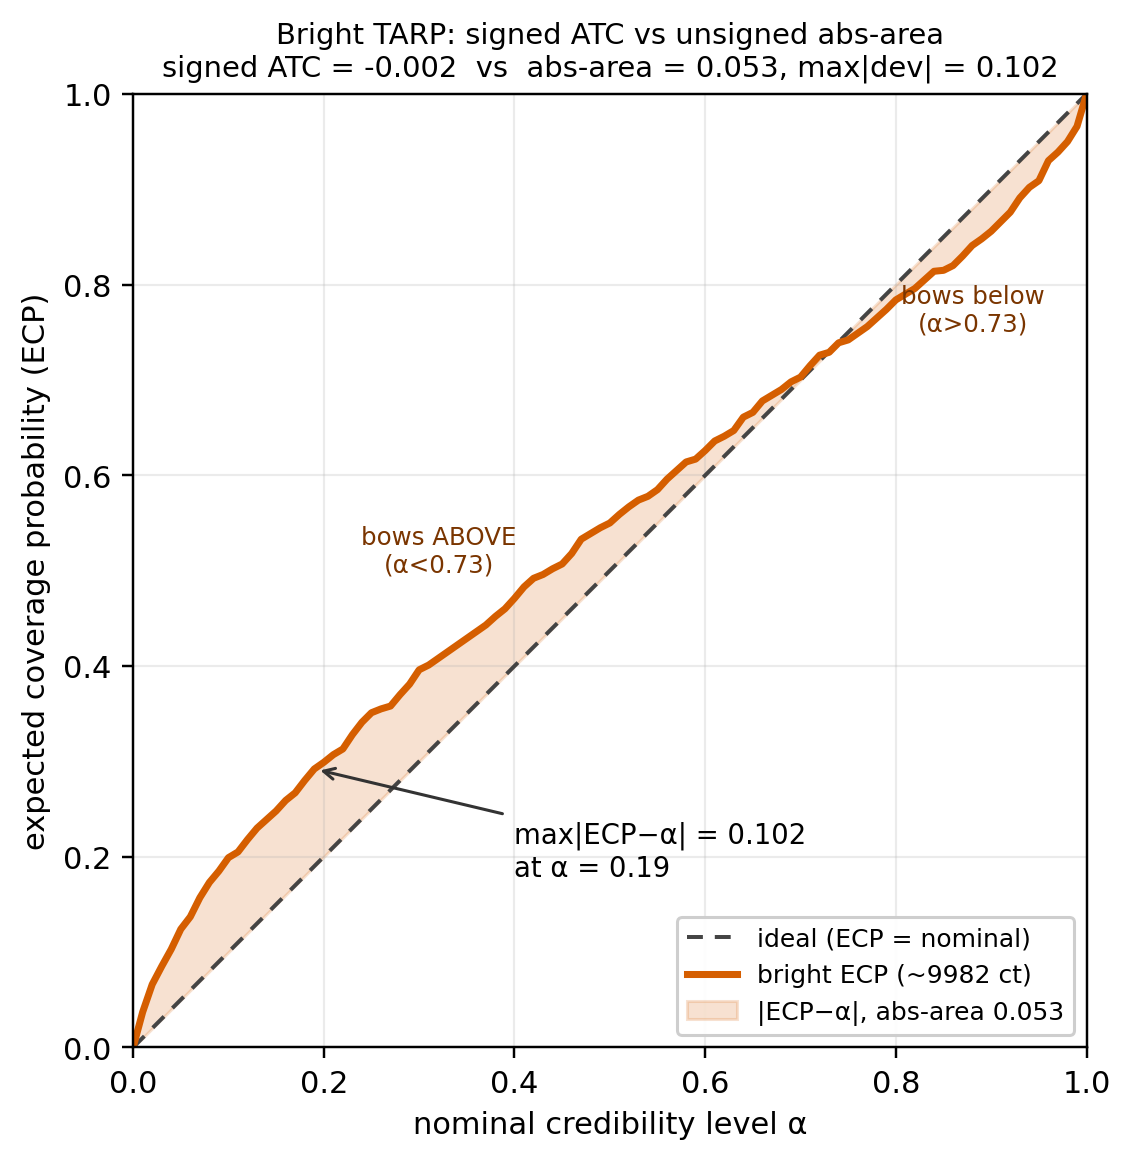
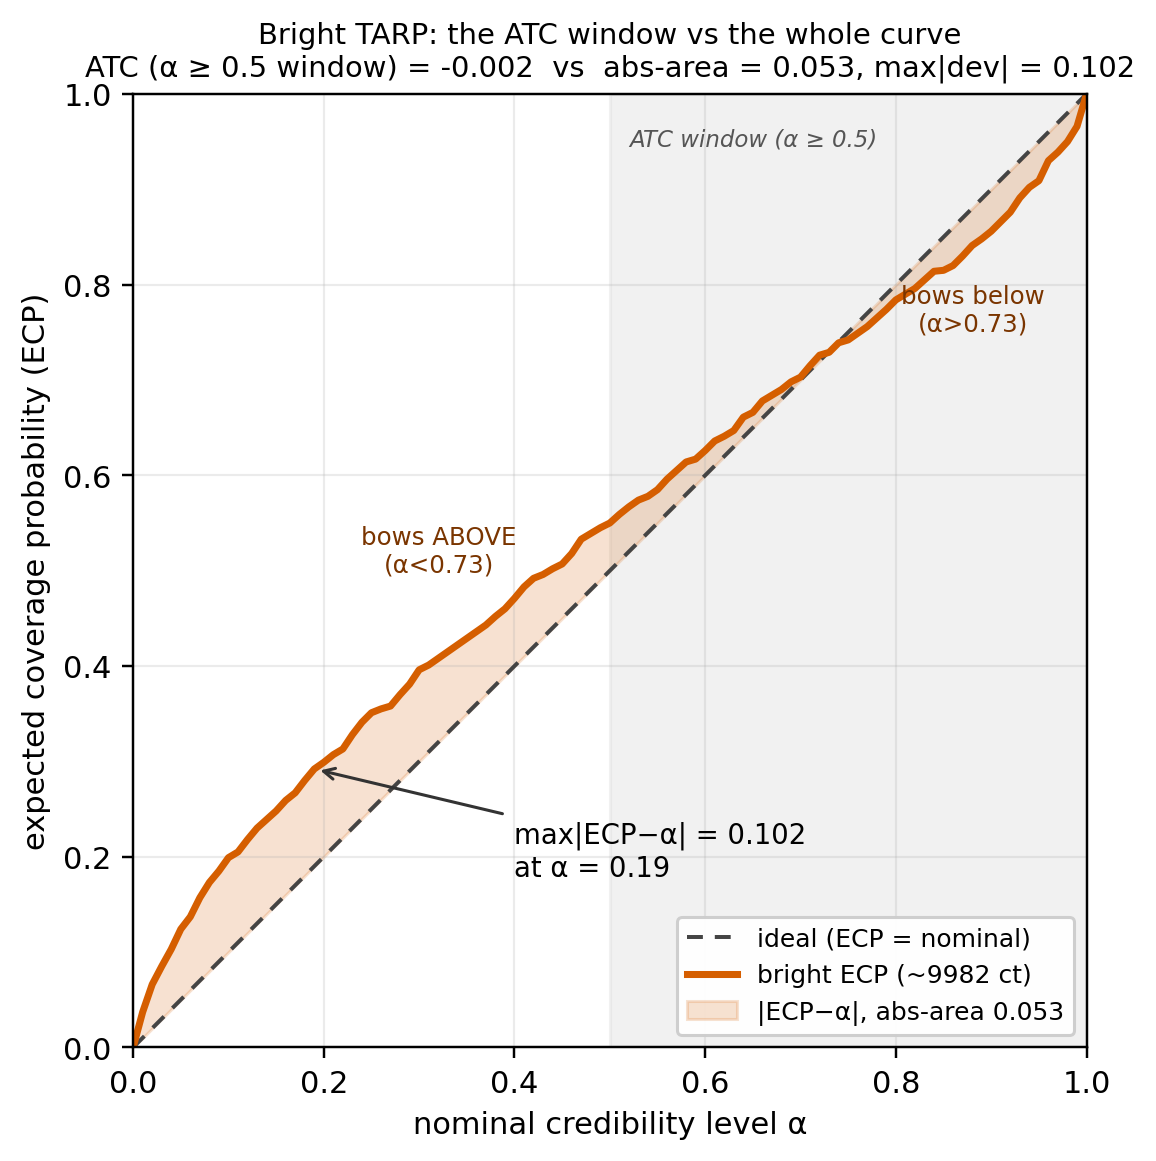
Align the TARP figure with the corrected reading

diff --git a/scripts/make_support_figs.py b/scripts/make_support_figs.py
@@ -22,8 +22,9 @@ Produces three figures into outputs/diagnostics/ :
       The bright-level TARP expected-coverage (ECP-vs-alpha) curve, with the
       |ECP-alpha| area shaded. The figure: the sbi ATC (~ -0.002) integrates
       ECP-alpha over alpha>=0.5 only, so the over-confidence lobe (peaking near
-      alpha~0.19, ending at the alpha~0.73 crossing) sits outside the statistic;
-      the full-range abs-area (0.053) and max|ECP-alpha| (0.102 at alpha~0.19)
+      alpha~0.19, ending at the alpha~0.73 crossing) sits almost entirely below
+      the alpha >= 0.5 window (the remainder nearly cancels inside it); the
+      full-range abs-area (0.053) and max|ECP-alpha| (0.102 at alpha~0.19)
       catch it. Reads outputs/calibration/bright/tarp.npz. The lesson is "read
       the curve / use abs-area or KS", not "TARP is insufficient".
 
@@ -163,11 +164,11 @@ def make_tarp_bright_curve(tarp_npz: Path, out_path: Path):
     """Bright TARP ECP-vs-alpha curve with the |ECP-alpha| area shaded.
 
     The sbi ATC integrates ECP-alpha over alpha>=0.5 only, so the over-confidence
-    lobe (peaking near alpha~0.19, ending at the crossing) sits outside the
-    statistic and stays invisible to it; the unsigned abs-area and
-    max|ECP-alpha| catch it. All numbers, including the crossing point itself,
-    are recomputed from the npz (the crossing is not at alpha=0.5, so it is not
-    assumed to be).
+    lobe (peaking near alpha~0.19, ending at the crossing) sits almost entirely
+    below the alpha >= 0.5 window (the remainder nearly cancels inside it); the
+    unsigned abs-area and max|ECP-alpha| catch it. All numbers, including the
+    crossing point itself, are recomputed from the npz (the crossing is not at
+    alpha=0.5, so it is not assumed to be).
     """
     d = np.load(tarp_npz, allow_pickle=True)
     ecp = np.asarray(d["ecp"]); alpha = np.asarray(d["alpha"])
@@ -200,6 +201,9 @@ def make_tarp_bright_curve(tarp_npz: Path, out_path: Path):
         counts = float(json.load(f)["median_total_counts"])
 
     fig, ax = plt.subplots(figsize=(5.4, 5.4))
+    ax.axvspan(0.5, 1.0, color="0.85", alpha=0.35, zorder=0)
+    ax.text(0.52, 0.965, "ATC window (α ≥ 0.5)", fontsize=7.5, color="#555555",
+            ha="left", va="top", style="italic")
     ax.plot([0, 1], [0, 1], ls=(0, (4, 3)), color="#444444", lw=1.3,
             label="ideal (ECP = nominal)")
     ax.plot(alpha, ecp, color="#D55E00", lw=2.3, label=f"bright ECP (~{counts:.0f} ct)")
@@ -225,8 +229,8 @@ def make_tarp_bright_curve(tarp_npz: Path, out_path: Path):
     ax.grid(alpha=0.25, lw=0.7)
     ax.set_xlabel("nominal credibility level α")
     ax.set_ylabel("expected coverage probability (ECP)")
-    ax.set_title("Bright TARP: signed ATC vs unsigned abs-area\n"
-                 f"signed ATC = {atc:+.3f}  vs  abs-area = "
+    ax.set_title("Bright TARP: the ATC window vs the whole curve\n"
+                 f"ATC (α ≥ 0.5 window) = {atc:+.3f}  vs  abs-area = "
                  f"{abs_area:.3f}, max|dev| = {max_dev:.3f}", fontsize=9.5)
     ax.legend(loc="lower right", fontsize=8.2, framealpha=0.95)
     fig.tight_layout()

diff --git a/scripts/run_all.py b/scripts/run_all.py
@@ -11,7 +11,7 @@ unless --force or the stage's own re-run is requested):
   1. simulate   data/sim/<name>_<level>.npz                       (5e4-row training sets + sanity sets)
   2. train      outputs/models/train_npe_prod_<level>/flow_state.pt
   3. calibrate  outputs/calibration/<level>/coverage_before_after.npz
-  4. detect     outputs/detect/results.jsonl (144 cells) + consequence.jsonl + analyze_detect tables
+  4. detect     outputs/detect/scores.jsonl (per-spectrum scores) + results.jsonl (144 cells) + analyze_detect tables
   5. ns_bench   outputs/ns_bench/results.jsonl              -- opt-in only (--with-ns),
                 because the NS run is multi-hour and is normally launched
                 separately in the background. Default run_all does not touch it.
@@ -108,6 +108,7 @@ def _detect_done() -> bool:
 
 
 def _ns_done() -> bool:
+    # results.jsonl ships committed and NS is multi-hour, so a fresh clone deliberately skips this stage; delete the file (or rerun the stage directly) to recompute.
     p = _repo_root() / "outputs" / "ns_bench" / "results.jsonl"
     return p.exists() and p.stat().st_size > 0
 

diff --git a/README.md b/README.md
@@ -199,19 +199,20 @@ Dupourqué I (arXiv:2401.06061 §3.2–3.3) recover excellently at 10⁴–10⁵
 a deliberately restricted prior and never run a rank-based SBC test; the rank-based
 calibration test is what this repo adds.
 
-**TARP: the ATC summary hides the over-confidence; read the curve.** A common
+**TARP: the ATC summary hides the miscalibration; read the curve.** A common
 shortcut is to read TARP's single area-to-curve (ATC) number. At bright that
 number is misleadingly benign: ATC ≈ −0.002 (recomputed from
 `outputs/calibration/bright/tarp.npz`), apparently fine. The `sbi` implementation
-integrates ECP−α over α ≥ 0.5 only, and the bright curve's over-confidence lobe
-sits almost entirely below that cut. The curve bows above the diagonal out to
-α ≈ 0.73 (max|ECP−α| = 0.102 at α ≈ 0.19; mean ECP−α = +0.080 over α < 0.5) and is
-nearly flat where the ATC actually integrates (mean −0.004 over α > 0.5), so the
-deviation is invisible to the statistic by construction. The unsigned whole-curve
-summary tells the truth: the bright ECP curve's abs-area is 0.053, versus
-0.005 / 0.012 at faint / medium. TARP does catch the over-confidence if you read
-the curve (or use abs-area / a KS statistic over the full α range); the ATC number
-alone hides it. The committed bright ECP curve makes this visible:
+integrates ECP−α over α ≥ 0.5 only, and the bright curve's deviation sits almost
+entirely below that cut: the curve bows above the diagonal out to α ≈ 0.73, with
+max|ECP−α| = 0.102 at α ≈ 0.19 and mean ECP−α = +0.080 over α < 0.5. The little
+that falls inside the window nearly cancels internally (+0.006 above the
+diagonal against −0.007 below, netting the −0.002), so the statistic stays
+benign while the curve is not. The unsigned whole-curve summary tells the
+truth: the bright ECP curve's abs-area is 0.053, versus 0.005 / 0.012 at faint /
+medium. TARP does catch the miscalibration if you read the curve (or use
+abs-area / a KS statistic over the full α range); the ATC number alone hides
+it. The committed bright ECP curve makes this visible:
 `outputs/diagnostics/tarp_bright_curve.png`.
 
 SBC rank histograms: `outputs/calibration/{faint,medium,bright}/sbc_ranks.png`.
